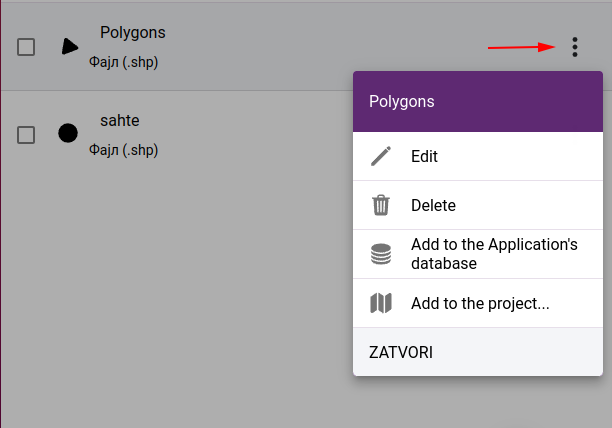
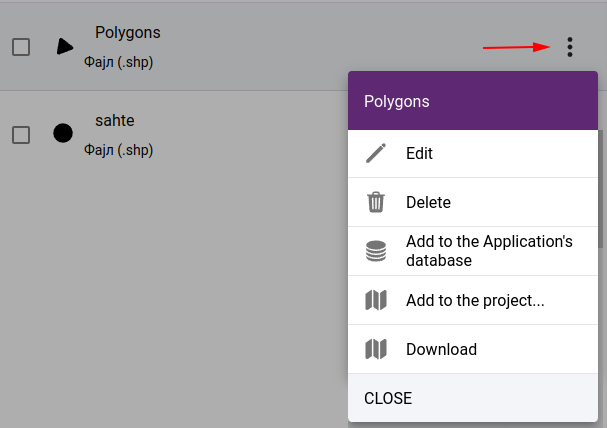
working on datsources, small improvements

diff --git a/docs/source/viewer.rst b/docs/source/viewer.rst
@@ -59,7 +59,9 @@ Tools:
       :align: center
 
       Search results
+
 |
+
 #. Zoom in and out: "+" zooms in and the "-" button zooms out the map.
 #. Reset map orientation: If the map is previously rotated (press and hold the right mouse button), its orientation can be reset to the default north-facing position.
 #. 3D view: This function is used with a 3D layer. First, check a 3D object layer, and activate the tool.
@@ -69,7 +71,9 @@ Tools:
       :align: center
 
       3D view
+
 |
+
 #. Find my location: Map will be focused on the user's aproximate geolocation.
 #. Zoom to extent: Map zoom level and position will be reset to its default values.
 #. Open point cloud: Drag and drop the tool on the map to open its location in the point cloud map.
@@ -79,7 +83,9 @@ Tools:
       :align: center
 
       Dragging eye to point cloud coverage area
+
 |
+
 #. Get permalink: Current location on the map can be converted in a link format copied
 
    .. figure:: images/viewer_sharelink.png
@@ -88,7 +94,9 @@ Tools:
       :width: 15cm
 
       Permalink
+
 |
+
 #. Basemap selector: The current map type can be changed.
 #. 2D digitizing tools: These tools are available when the active layer is set. Objects on the map can be created, edited or its properties changed.
 
@@ -114,7 +122,9 @@ Tools:
       :align: center
 
       The snap tool in action
+
 |
+
 #. Measuremant tools: Different measuring tools can be used to measure area or distance. Measurements can be taken by selecting the desired tool and clicking on the map. Measurements can be completed by double-clicking on the map.
 
    * Measure distance: Distance is measured between multiple points, minimum of two.
@@ -129,7 +139,9 @@ Tools:
       :align: center
 
       Measuring area and distance
+
 |
+
 #. Report bad conditions: A report can be created in three category, it can be a road sign, lighting, muncipial or road defect. When a category is selected it can be created when clicked on the map, then a popup is opened where the defect details can be defined. This is an optional feature. When preparing a report, it can be created on an existing layer as an object, or it can be attached to an existing object as a report document.
 
    .. figure:: images/viewer_report.png
@@ -137,7 +149,9 @@ Tools:
       :align: center
 
       Fault reports
+
 |
+
    For example if a road lighting defect has to be reported:
 
       * First the "lighting" tool must be selected under "report bad conditions".
@@ -212,7 +226,9 @@ At the bottom of maplegend are the export and reload layers functions
 Export data
 -----------
 
-Export of layered data in various GIS and tabbed formats is possible:
+You can populate layers marked as editable in the application, using the digitizing tools and forms. These layers can be exported from the database.
+
+The layers can be exported in GIS, CAD and spreadsheet formats:
 
 * .shp - ESRI ShapeFile
 * .gdb - File Geodatabase (GDB)
@@ -228,7 +244,7 @@ If point clouds are available, it is possible to limit the export to the area co
 
 .. note:: Export is available only for logged in users. Only those layers are exported for which the user has export permission. The permissions can be set by the project owner or an administrator on the :ref:`map administration pages<map_permssions>`.
 
-Since we can export a lot of large layers, exporting can take some time. To avoid waiting for the result, you can choose the notification option. In this case, we can continue working and receive a notification email with a download link after the export is complete.
+Since we can export a lot of large layers, exporting can take some time. To avoid waiting for the result, you can choose the notification option. In this case, you can continue working and receive a notification email with a download link after the export is complete.
 
 .. figure:: images/layer_export.png
    :align: center

diff --git a/docs/source/datasources.rst b/docs/source/datasources.rst
@@ -148,11 +148,13 @@ It is possible to subsequently change the settings of data sources and perform o
 * **Delete** - deletes a data source
 * **Add to Application's database** - datasource will be available in Application's spatial database as a PostGIS table
 * **Add to project** - add data source to a project by creating a new layer
+* **Download** - download datasource files in a ZIP archive. This feature is available only to users with export permissions set in the :ref:`Team Management<users_role>` section.
 
 .. figure:: images/datasource_menu.png
     :align: center
+    :width: 15cm
 
-    Datsource commands
+    Datasource commands
 
 If you want to add the data source to a project, you need to select the project and target folder:
 
@@ -224,6 +226,7 @@ In order to be able to use a WMS server in SmartGIS, the access parameters need 
 
     Adding a WMS service
 
+.. tip:: It is possible to enter copyright text in the Attribution field. This will appear on the map when a layer of the WMS service becomes visible.
 
 External map services
 ---------------------
@@ -233,5 +236,5 @@ We can use external services to access map tiles. Then the user's browser as a c
 Supported services
 
 * XYZ compatible tile services
-* Bing maps
+* Bing maps imagery
 

diff --git a/docs/source/users.rst b/docs/source/users.rst
@@ -34,7 +34,7 @@ Actions:
         :align: center
 
         Create new user
-    
+
     * Default data tab:
 
         * Email: Email of the user must be set.
@@ -57,10 +57,12 @@ Actions:
 
         Create new user, groups tab
 
+.. _users_role:
+
     * Role tab:
 
         * Various permissions can be set to the user like:
-            
+
             * Using FTP folders (When turned on data can be uploaded on datasource, data sturcture can modified and the FTP folder can be used)
             * Prohibit access to the admin pages (When turned on the administration menu and its submenus cant be reached)
             * Export data (When turned on data can be exported from the system)
@@ -127,7 +129,7 @@ Actions:
 
     .. figure:: images/users_newgroup.png
         :align: center
-        
+
         New group popup
 
 * Edit or delete group: Group can be edited or removed, when at the end of the row "more option" and "edit" or "remove" button is pressed. To close the panel press the "Close" button.

diff --git a/docs/source/map_folders.rst b/docs/source/map_folders.rst
@@ -19,10 +19,6 @@ By organizing map layers into folders, users can turn multiple layers on and off
     Folders
 
 
-.. note:: Currently there is no option in SmartGIS to create subfolders within a folder.
-
-
-
 Create folders
 --------------
 

diff --git a/docs/source/mapadmin.rst b/docs/source/mapadmin.rst
@@ -38,6 +38,6 @@ These pages are only available to users added within the application, on the :re
     datasources
     trajectories
     maps
+    lookups
 ..
-   lookups
    searches
